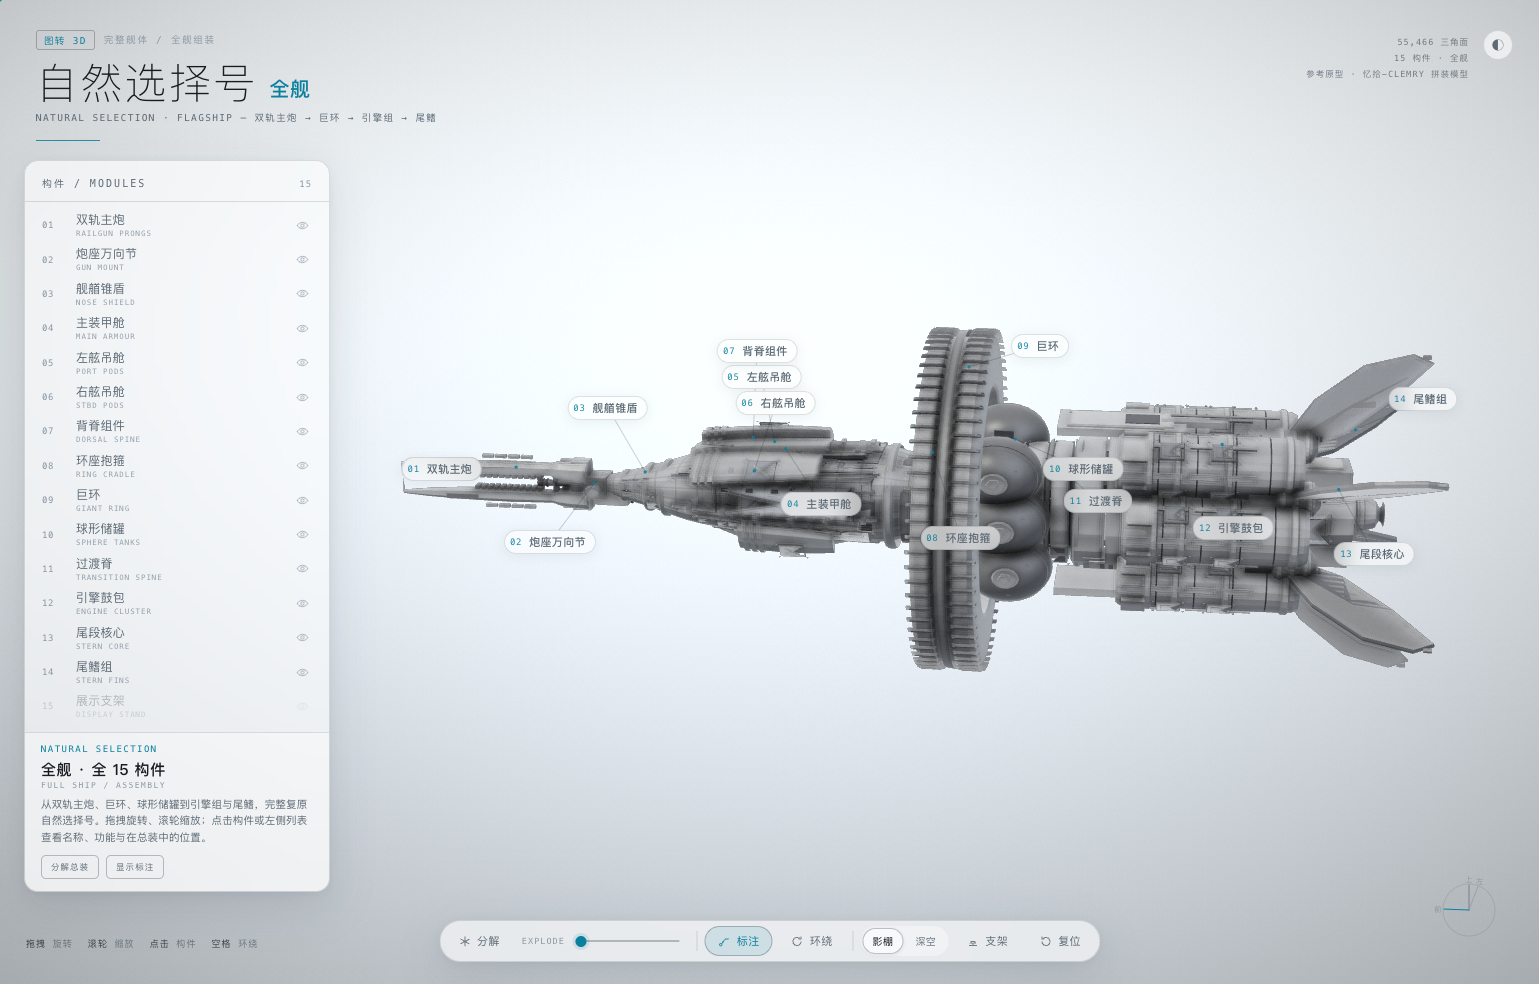
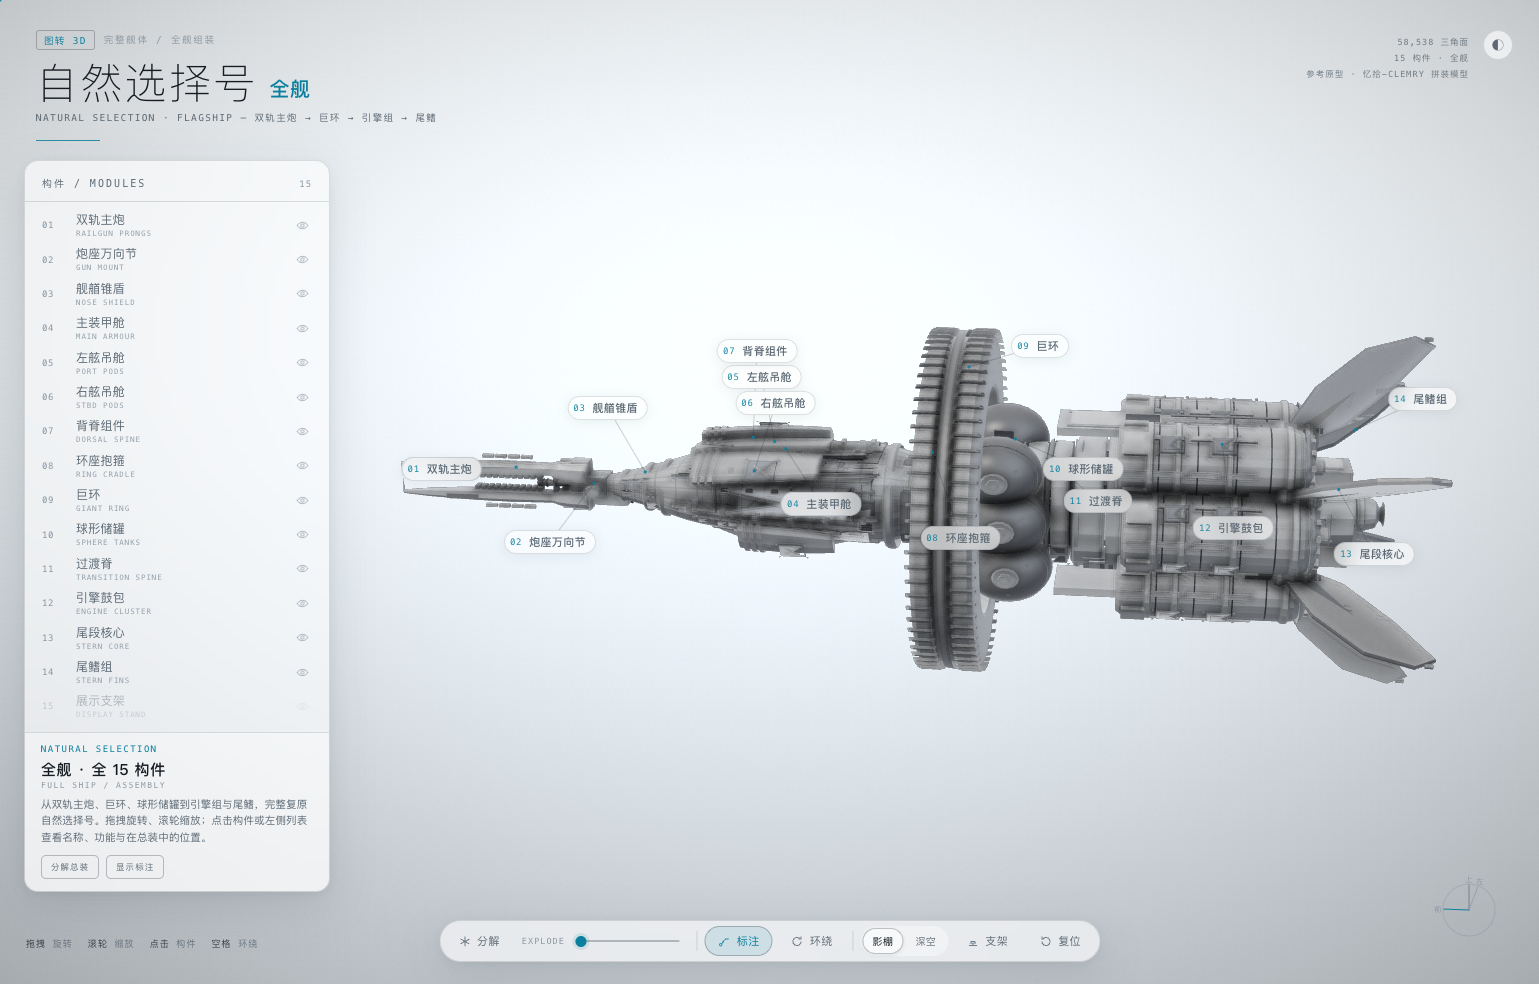
feat: 按尾部完成照补齐涡轮引擎端面与支架
- 六具鼓包放大并重排,尾部增加大型涡轮端面:同心阶梯环、12 片径向叶片、中央轮毂
- 尾鳍放大到 6 片,根部轮毂加粗,更接近尾部照片的比例
- 展示支架改为夹持巨环底部:深色圆角底板 + 桁架弯臂 + 鞍座
- 重新截取全舰/尾段/分解/深空预览,加入新参考图对照

Changed region(s): [[0.7173, 0.3354, 0.9357, 0.7012]]

diff --git a/自然选择号-全舰.html b/自然选择号-全舰.html
@@ -1256,7 +1256,7 @@ const PARTS = [
     anchor: [-2.6, 1.25, 0.6], off: [-8.0, 0, 0] },
   { id: 14, name: '展示支架', en: 'DISPLAY STAND', color: '#a9b4c2',
     desc: '套件附带的展示支架:双支脚 + 弯曲支臂 + 承托夹,可单独显示或收起。',
-    anchor: [0.4, -2.6, 0.3], off: [0, -3.2, 0] },
+    anchor: [2.1, -2.9, 0.25], off: [0, -3.2, 0] },
 ];
 
 // stand hidden by default
@@ -2287,8 +2287,8 @@ function xBand(b, x, cy, cz, r, w, col, segs = 24) {
 
 // ---------- engine cluster (part 11) ----------
 const ENGINES = [
-  [0.96, 0.74, 0.505, 0.06], [0.00, 1.06, 0.535, -0.02], [-0.96, 0.74, 0.505, 0.03],
-  [0.96, -0.74, 0.505, 0.06], [0.00, -1.06, 0.535, -0.02], [-0.96, -0.74, 0.505, 0.03],
+  [1.02, 0.72, 0.600, 0.06], [0.00, 1.12, 0.635, -0.02], [-1.02, 0.72, 0.600, 0.03],
+  [1.02, -0.72, 0.600, 0.06], [0.00, -1.12, 0.635, -0.02], [-1.02, -0.72, 0.600, 0.03],
 ];
 
 function drumPanel(b, x, cy, cz, r, a, sx, st, h, col) {
@@ -2369,11 +2369,36 @@ function buildDrum(b, cy, cz, r, dx) {
     const x = xf - 0.35 - i * 0.52;
     obox(b, [x, cy + r * 0.60, cz + r * 0.78], [1, 0, 0], [0, 1, 0], [0, 0, 1], 0.028, 0.05, 0.06, cc('armorD'));
   }
-  // rear nozzle recess
+  // large turbine engine face at the stern of each drum
+  const faceX = xr - 0.02;
+  const steps = [[1.02, 0.00], [0.92, 0.05], [0.74, 0.09], [0.56, 0.12], [0.38, 0.14]];
+  const ringP = (rr, a, dx) => [faceX - dx, cy + r * rr * Math.cos(a), cz + r * rr * Math.sin(a)];
+  for (let i = 0; i < steps.length - 1; i++) {
+    const [r0, d0] = steps[i], [r1, d1] = steps[i + 1];
+    for (let j = 0; j < 24; j++) {
+      const a0 = j / 24 * TAU, a1 = (j + 1) / 24 * TAU;
+      b.quad(ringP(r0, a0, d0), ringP(r0, a1, d0), ringP(r1, a1, d1), ringP(r1, a0, d1), i % 2 ? cc('armorD') : cc('armor'));
+    }
+  }
+  // dark inner disc + hub
   for (let j = 0; j < 24; j++) {
     const a0 = j / 24 * TAU, a1 = (j + 1) / 24 * TAU;
-    const P = (a, rr) => [xr - 0.01, cy + rr * Math.cos(a), cz + rr * Math.sin(a)];
-    b.tri(P(a0, r * 0.80), P(a1, r * 0.80), P((a0 + a1) / 2, r * 0.42), cc('recess'), [1, 0, 0], [1, 0, 0], [1, 0, 0]);
+    b.tri([faceX - 0.14, cy, cz], ringP(0.38, a0, 0.14), ringP(0.38, a1, 0.14), cc('recess'), [1, 0, 0], [1, 0, 0], [1, 0, 0]);
+  }
+  xProf(b, [[faceX - 0.14, r * 0.22], [faceX - 0.24, r * 0.22], [faceX - 0.27, r * 0.16]], cy, cz, 18, cc('metal'), false, true);
+  for (const [rad, xx] of [[0.62, 0.07], [0.82, 0.035]]) {
+    for (let j = 0; j < 24; j++) {
+      const a0 = j / 24 * TAU, a1 = (j + 1) / 24 * TAU;
+      b.quad(ringP(rad + 0.035, a0, xx), ringP(rad + 0.035, a1, xx), ringP(rad + 0.035, a1, xx + 0.03), ringP(rad + 0.035, a0, xx + 0.03), cc('armorD'));
+    }
+  }
+  // radial turbine blades
+  for (let k = 0; k < 12; k++) {
+    const a = k / 12 * TAU + Math.PI / 12;
+    const rad = [0, Math.cos(a), Math.sin(a)];
+    const tang = [0, -Math.sin(a), Math.cos(a)];
+    const p = [faceX - 0.10, cy + r * 0.62 * Math.cos(a), cz + r * 0.62 * Math.sin(a)];
+    obox(b, p, [1, 0, 0], rad, tang, 0.028, r * 0.22, 0.045, cc('armorL'));
   }
 }
 
@@ -2491,44 +2516,52 @@ function finBlade(b, angle, scale) {
 
 function buildFins(b) {
   b.begin(13, 0.55, 0, 0);
-  for (const d of [0, 60, 120, 180, 240, 300]) finBlade(b, d * Math.PI / 180, 1.10);
+  for (const d of [0, 60, 120, 180, 240, 300]) finBlade(b, d * Math.PI / 180, 1.22);
   b.end();
 }
 
 // ---------- display stand (part 14) ----------
 function buildStand(b) {
   b.begin(14, 0.5, 0, 0);
-  const baseY = -3.0;
-  // V-shaped feet
-  for (const s of [-1, 1]) {
-    const ang = s * 0.30;
-    const ax = [Math.cos(ang), 0, Math.sin(ang)], az = [-Math.sin(ang), 0, Math.cos(ang)];
-    const c = [0.55 + ax[0] * 1.30, baseY, ax[2] * 1.30];
-    obox(b, c, ax, [0, 1, 0], az, 1.45, 0.065, 0.19, cc('armorD'));
-    obox(b, V.add(c, [0, 0.075, 0]), ax, [0, 1, 0], az, 1.20, 0.018, 0.11, cc('dark'));
-    obox(b, V.add(c, ax.map(v => v * 1.40)), ax, [0, 1, 0], az, 0.17, 0.10, 0.25, cc('dark'));
+  const baseY = -3.62;
+  // flat rounded base plate
+  obox(b, [2.10, baseY, 0], [1, 0, 0], [0, 1, 0], [0, 0, 1], 1.16, 0.085, 0.60, cc('dark'));
+  obox(b, [2.10, baseY + 0.085, 0], [1, 0, 0], [0, 1, 0], [0, 0, 1], 1.02, 0.012, 0.46, cc('armorD'));
+  for (const sx of [-1, 1]) for (const sz of [-1, 1]) {
+    obox(b, [2.10 + sx * 1.00, baseY, sz * 0.50], [1, 0, 0], [0, 1, 0], [0, 0, 1], 0.10, 0.085, 0.10, cc('armorD'));
   }
-  // centre block
-  obox(b, [0.55, baseY + 0.09, 0], [1, 0, 0], [0, 1, 0], [0, 0, 1], 0.32, 0.09, 0.40, cc('armorD'));
-  // curved I-beam arm
-  const path = [[0.55, baseY + 0.16], [0.72, baseY + 0.72], [0.96, baseY + 1.30], [1.24, baseY + 1.90], [1.50, baseY + 2.18]];
-  for (let i = 0; i < path.length - 1; i++) {
-    const [x0, y0] = path[i], [x1, y1] = path[i + 1];
-    const len = Math.hypot(x1 - x0, y1 - y0), ang = Math.atan2(y1 - y0, x1 - x0);
-    const ax = [Math.cos(ang), Math.sin(ang), 0], ay = [-Math.sin(ang), Math.cos(ang), 0];
-    const c = [(x0 + x1) / 2, (y0 + y1) / 2, 0];
-    obox(b, c, ax, ay, [0, 0, 1], len * 0.55, 0.05, 0.135, cc('dark'));
-    obox(b, V.add(c, V.mul(ay, 0.105)), ax, ay, [0, 0, 1], len * 0.55, 0.032, 0.15, cc('armorD'));
-    obox(b, V.add(c, V.mul(ay, -0.105)), ax, ay, [0, 0, 1], len * 0.55, 0.032, 0.15, cc('armorD'));
-    obox(b, c, ax, ay, [0, 0, 1], len * 0.2, 0.028, 0.02, cc('recess'));
+  // truss arm rising to the ring saddle
+  const armBase = [2.10, baseY + 0.12], armTop = [2.42, baseY + 0.86];
+  const dx = armTop[0] - armBase[0], dy = armTop[1] - armBase[1];
+  const len = Math.hypot(dx, dy), ang = Math.atan2(dy, dx);
+  const ax = [Math.cos(ang), Math.sin(ang), 0], ay = [-Math.sin(ang), Math.cos(ang), 0];
+  const mid = [(armBase[0] + armTop[0]) / 2, (armBase[1] + armTop[1]) / 2, 0];
+  // two side plates with triangular truss openings
+  for (const sz of [-1, 1]) {
+    obox(b, [mid[0], mid[1], sz * 0.16], ax, ay, [0, 0, 1], len * 0.55, 0.26, 0.03, cc('armorD'));
+    // triangular openings (dark insets)
+    for (let i = 0; i < 3; i++) {
+      const t = (i + 0.5) / 3;
+      const px = lerp(armBase[0], armTop[0], t), py = lerp(armBase[1], armTop[1], t);
+      obox(b, [px, py, sz * 0.176], ax, ay, [0, 0, 1], 0.045, 0.07, 0.012, cc('recess'));
+    }
   }
-  // cradle under the hull
-  const cy = -0.70;
-  obox(b, [1.50, cy - 0.12, 0], [1, 0, 0], [0, 1, 0], [0, 0, 1], 0.22, 0.10, 0.30, cc('metal'));
-  for (const s of [-1, 1]) obox(b, [1.50, cy + 0.08, s * 0.22], [1, 0, 0], [0, 1, 0], [0, 0, 1], 0.20, 0.22, 0.045, cc('metal'));
-  obox(b, [1.50, cy + 0.08, 0], [0, 1, 0], [0, 0, 1], [1, 0, 0], 0.20, 0.035, 0.035, cc('steel'));
-  // bolts
-  for (const s of [-1, 1]) for (const x of [-0.4, 1.4]) boltAt(b, [x, baseY + 0.10, s * 0.55], [0, 1, 0], 0.03, 0.018);
+  // front/back webs
+  for (const sz of [-0.16, 0.16]) {
+    obox(b, [mid[0], mid[1], sz], ax, ay, [0, 0, 1], len * 0.5, 0.035, 0.028, cc('armorD'));
+  }
+  // saddle under the ring
+  const sx = 2.42, sy = baseY + 0.96;
+  obox(b, [sx, sy, 0], [1, 0, 0], [0, 1, 0], [0, 0, 1], 0.24, 0.05, 0.30, cc('metal'));
+  for (const sz of [-1, 1]) {
+    obox(b, [sx - 0.10, sy + 0.14, sz * 0.24], [1, 0, 0], [0, 1, 0], [0, 0, 1], 0.28, 0.16, 0.05, cc('metal'));
+    obox(b, [sx + 0.16, sy + 0.10, sz * 0.24], [1, 0, 0], [0, 1, 0], [0, 0, 1], 0.10, 0.10, 0.05, cc('armorD'));
+  }
+  // cross pin + bolts
+  obox(b, [sx, sy + 0.10, 0], [0, 1, 0], [0, 0, 1], [1, 0, 0], 0.035, 0.035, 0.30, cc('steel'));
+  for (const sx2 of [-1, 1]) for (const sz of [-1, 1]) {
+    boltAt(b, [2.10 + sx2 * 0.9, baseY + 0.09, sz * 0.42], [0, 1, 0], 0.03, 0.018);
+  }
   b.end();
 }
 

diff --git a/src/model.js b/src/model.js
@@ -65,7 +65,7 @@ const PARTS = [
     anchor: [-2.6, 1.25, 0.6], off: [-8.0, 0, 0] },
   { id: 14, name: '展示支架', en: 'DISPLAY STAND', color: '#a9b4c2',
     desc: '套件附带的展示支架:双支脚 + 弯曲支臂 + 承托夹,可单独显示或收起。',
-    anchor: [0.4, -2.6, 0.3], off: [0, -3.2, 0] },
+    anchor: [2.1, -2.9, 0.25], off: [0, -3.2, 0] },
 ];
 
 // stand hidden by default
@@ -1096,8 +1096,8 @@ function xBand(b, x, cy, cz, r, w, col, segs = 24) {
 
 // ---------- engine cluster (part 11) ----------
 const ENGINES = [
-  [0.96, 0.74, 0.505, 0.06], [0.00, 1.06, 0.535, -0.02], [-0.96, 0.74, 0.505, 0.03],
-  [0.96, -0.74, 0.505, 0.06], [0.00, -1.06, 0.535, -0.02], [-0.96, -0.74, 0.505, 0.03],
+  [1.02, 0.72, 0.600, 0.06], [0.00, 1.12, 0.635, -0.02], [-1.02, 0.72, 0.600, 0.03],
+  [1.02, -0.72, 0.600, 0.06], [0.00, -1.12, 0.635, -0.02], [-1.02, -0.72, 0.600, 0.03],
 ];
 
 function drumPanel(b, x, cy, cz, r, a, sx, st, h, col) {
@@ -1178,11 +1178,36 @@ function buildDrum(b, cy, cz, r, dx) {
     const x = xf - 0.35 - i * 0.52;
     obox(b, [x, cy + r * 0.60, cz + r * 0.78], [1, 0, 0], [0, 1, 0], [0, 0, 1], 0.028, 0.05, 0.06, cc('armorD'));
   }
-  // rear nozzle recess
+  // large turbine engine face at the stern of each drum
+  const faceX = xr - 0.02;
+  const steps = [[1.02, 0.00], [0.92, 0.05], [0.74, 0.09], [0.56, 0.12], [0.38, 0.14]];
+  const ringP = (rr, a, dx) => [faceX - dx, cy + r * rr * Math.cos(a), cz + r * rr * Math.sin(a)];
+  for (let i = 0; i < steps.length - 1; i++) {
+    const [r0, d0] = steps[i], [r1, d1] = steps[i + 1];
+    for (let j = 0; j < 24; j++) {
+      const a0 = j / 24 * TAU, a1 = (j + 1) / 24 * TAU;
+      b.quad(ringP(r0, a0, d0), ringP(r0, a1, d0), ringP(r1, a1, d1), ringP(r1, a0, d1), i % 2 ? cc('armorD') : cc('armor'));
+    }
+  }
+  // dark inner disc + hub
   for (let j = 0; j < 24; j++) {
     const a0 = j / 24 * TAU, a1 = (j + 1) / 24 * TAU;
-    const P = (a, rr) => [xr - 0.01, cy + rr * Math.cos(a), cz + rr * Math.sin(a)];
-    b.tri(P(a0, r * 0.80), P(a1, r * 0.80), P((a0 + a1) / 2, r * 0.42), cc('recess'), [1, 0, 0], [1, 0, 0], [1, 0, 0]);
+    b.tri([faceX - 0.14, cy, cz], ringP(0.38, a0, 0.14), ringP(0.38, a1, 0.14), cc('recess'), [1, 0, 0], [1, 0, 0], [1, 0, 0]);
+  }
+  xProf(b, [[faceX - 0.14, r * 0.22], [faceX - 0.24, r * 0.22], [faceX - 0.27, r * 0.16]], cy, cz, 18, cc('metal'), false, true);
+  for (const [rad, xx] of [[0.62, 0.07], [0.82, 0.035]]) {
+    for (let j = 0; j < 24; j++) {
+      const a0 = j / 24 * TAU, a1 = (j + 1) / 24 * TAU;
+      b.quad(ringP(rad + 0.035, a0, xx), ringP(rad + 0.035, a1, xx), ringP(rad + 0.035, a1, xx + 0.03), ringP(rad + 0.035, a0, xx + 0.03), cc('armorD'));
+    }
+  }
+  // radial turbine blades
+  for (let k = 0; k < 12; k++) {
+    const a = k / 12 * TAU + Math.PI / 12;
+    const rad = [0, Math.cos(a), Math.sin(a)];
+    const tang = [0, -Math.sin(a), Math.cos(a)];
+    const p = [faceX - 0.10, cy + r * 0.62 * Math.cos(a), cz + r * 0.62 * Math.sin(a)];
+    obox(b, p, [1, 0, 0], rad, tang, 0.028, r * 0.22, 0.045, cc('armorL'));
   }
 }
 
@@ -1300,43 +1325,51 @@ function finBlade(b, angle, scale) {
 
 function buildFins(b) {
   b.begin(13, 0.55, 0, 0);
-  for (const d of [0, 60, 120, 180, 240, 300]) finBlade(b, d * Math.PI / 180, 1.10);
+  for (const d of [0, 60, 120, 180, 240, 300]) finBlade(b, d * Math.PI / 180, 1.22);
   b.end();
 }
 
 // ---------- display stand (part 14) ----------
 function buildStand(b) {
   b.begin(14, 0.5, 0, 0);
-  const baseY = -3.0;
-  // V-shaped feet
-  for (const s of [-1, 1]) {
-    const ang = s * 0.30;
-    const ax = [Math.cos(ang), 0, Math.sin(ang)], az = [-Math.sin(ang), 0, Math.cos(ang)];
-    const c = [0.55 + ax[0] * 1.30, baseY, ax[2] * 1.30];
-    obox(b, c, ax, [0, 1, 0], az, 1.45, 0.065, 0.19, cc('armorD'));
-    obox(b, V.add(c, [0, 0.075, 0]), ax, [0, 1, 0], az, 1.20, 0.018, 0.11, cc('dark'));
-    obox(b, V.add(c, ax.map(v => v * 1.40)), ax, [0, 1, 0], az, 0.17, 0.10, 0.25, cc('dark'));
+  const baseY = -3.62;
+  // flat rounded base plate
+  obox(b, [2.10, baseY, 0], [1, 0, 0], [0, 1, 0], [0, 0, 1], 1.16, 0.085, 0.60, cc('dark'));
+  obox(b, [2.10, baseY + 0.085, 0], [1, 0, 0], [0, 1, 0], [0, 0, 1], 1.02, 0.012, 0.46, cc('armorD'));
+  for (const sx of [-1, 1]) for (const sz of [-1, 1]) {
+    obox(b, [2.10 + sx * 1.00, baseY, sz * 0.50], [1, 0, 0], [0, 1, 0], [0, 0, 1], 0.10, 0.085, 0.10, cc('armorD'));
   }
-  // centre block
-  obox(b, [0.55, baseY + 0.09, 0], [1, 0, 0], [0, 1, 0], [0, 0, 1], 0.32, 0.09, 0.40, cc('armorD'));
-  // curved I-beam arm
-  const path = [[0.55, baseY + 0.16], [0.72, baseY + 0.72], [0.96, baseY + 1.30], [1.24, baseY + 1.90], [1.50, baseY + 2.18]];
-  for (let i = 0; i < path.length - 1; i++) {
-    const [x0, y0] = path[i], [x1, y1] = path[i + 1];
-    const len = Math.hypot(x1 - x0, y1 - y0), ang = Math.atan2(y1 - y0, x1 - x0);
-    const ax = [Math.cos(ang), Math.sin(ang), 0], ay = [-Math.sin(ang), Math.cos(ang), 0];
-    const c = [(x0 + x1) / 2, (y0 + y1) / 2, 0];
-    obox(b, c, ax, ay, [0, 0, 1], len * 0.55, 0.05, 0.135, cc('dark'));
-    obox(b, V.add(c, V.mul(ay, 0.105)), ax, ay, [0, 0, 1], len * 0.55, 0.032, 0.15, cc('armorD'));
-    obox(b, V.add(c, V.mul(ay, -0.105)), ax, ay, [0, 0, 1], len * 0.55, 0.032, 0.15, cc('armorD'));
-    obox(b, c, ax, ay, [0, 0, 1], len * 0.2, 0.028, 0.02, cc('recess'));
+  // truss arm rising to the ring saddle
+  const armBase = [2.10, baseY + 0.12], armTop = [2.42, baseY + 0.86];
+  const dx = armTop[0] - armBase[0], dy = armTop[1] - armBase[1];
+  const len = Math.hypot(dx, dy), ang = Math.atan2(dy, dx);
+  const ax = [Math.cos(ang), Math.sin(ang), 0], ay = [-Math.sin(ang), Math.cos(ang), 0];
+  const mid = [(armBase[0] + armTop[0]) / 2, (armBase[1] + armTop[1]) / 2, 0];
+  // two side plates with triangular truss openings
+  for (const sz of [-1, 1]) {
+    obox(b, [mid[0], mid[1], sz * 0.16], ax, ay, [0, 0, 1], len * 0.55, 0.26, 0.03, cc('armorD'));
+    // triangular openings (dark insets)
+    for (let i = 0; i < 3; i++) {
+      const t = (i + 0.5) / 3;
+      const px = lerp(armBase[0], armTop[0], t), py = lerp(armBase[1], armTop[1], t);
+      obox(b, [px, py, sz * 0.176], ax, ay, [0, 0, 1], 0.045, 0.07, 0.012, cc('recess'));
+    }
   }
-  // cradle under the hull
-  const cy = -0.70;
-  obox(b, [1.50, cy - 0.12, 0], [1, 0, 0], [0, 1, 0], [0, 0, 1], 0.22, 0.10, 0.30, cc('metal'));
-  for (const s of [-1, 1]) obox(b, [1.50, cy + 0.08, s * 0.22], [1, 0, 0], [0, 1, 0], [0, 0, 1], 0.20, 0.22, 0.045, cc('metal'));
-  obox(b, [1.50, cy + 0.08, 0], [0, 1, 0], [0, 0, 1], [1, 0, 0], 0.20, 0.035, 0.035, cc('steel'));
-  // bolts
-  for (const s of [-1, 1]) for (const x of [-0.4, 1.4]) boltAt(b, [x, baseY + 0.10, s * 0.55], [0, 1, 0], 0.03, 0.018);
+  // front/back webs
+  for (const sz of [-0.16, 0.16]) {
+    obox(b, [mid[0], mid[1], sz], ax, ay, [0, 0, 1], len * 0.5, 0.035, 0.028, cc('armorD'));
+  }
+  // saddle under the ring
+  const sx = 2.42, sy = baseY + 0.96;
+  obox(b, [sx, sy, 0], [1, 0, 0], [0, 1, 0], [0, 0, 1], 0.24, 0.05, 0.30, cc('metal'));
+  for (const sz of [-1, 1]) {
+    obox(b, [sx - 0.10, sy + 0.14, sz * 0.24], [1, 0, 0], [0, 1, 0], [0, 0, 1], 0.28, 0.16, 0.05, cc('metal'));
+    obox(b, [sx + 0.16, sy + 0.10, sz * 0.24], [1, 0, 0], [0, 1, 0], [0, 0, 1], 0.10, 0.10, 0.05, cc('armorD'));
+  }
+  // cross pin + bolts
+  obox(b, [sx, sy + 0.10, 0], [0, 1, 0], [0, 0, 1], [1, 0, 0], 0.035, 0.035, 0.30, cc('steel'));
+  for (const sx2 of [-1, 1]) for (const sz of [-1, 1]) {
+    boltAt(b, [2.10 + sx2 * 0.9, baseY + 0.09, sz * 0.42], [0, 1, 0], 0.03, 0.018);
+  }
   b.end();
 }
